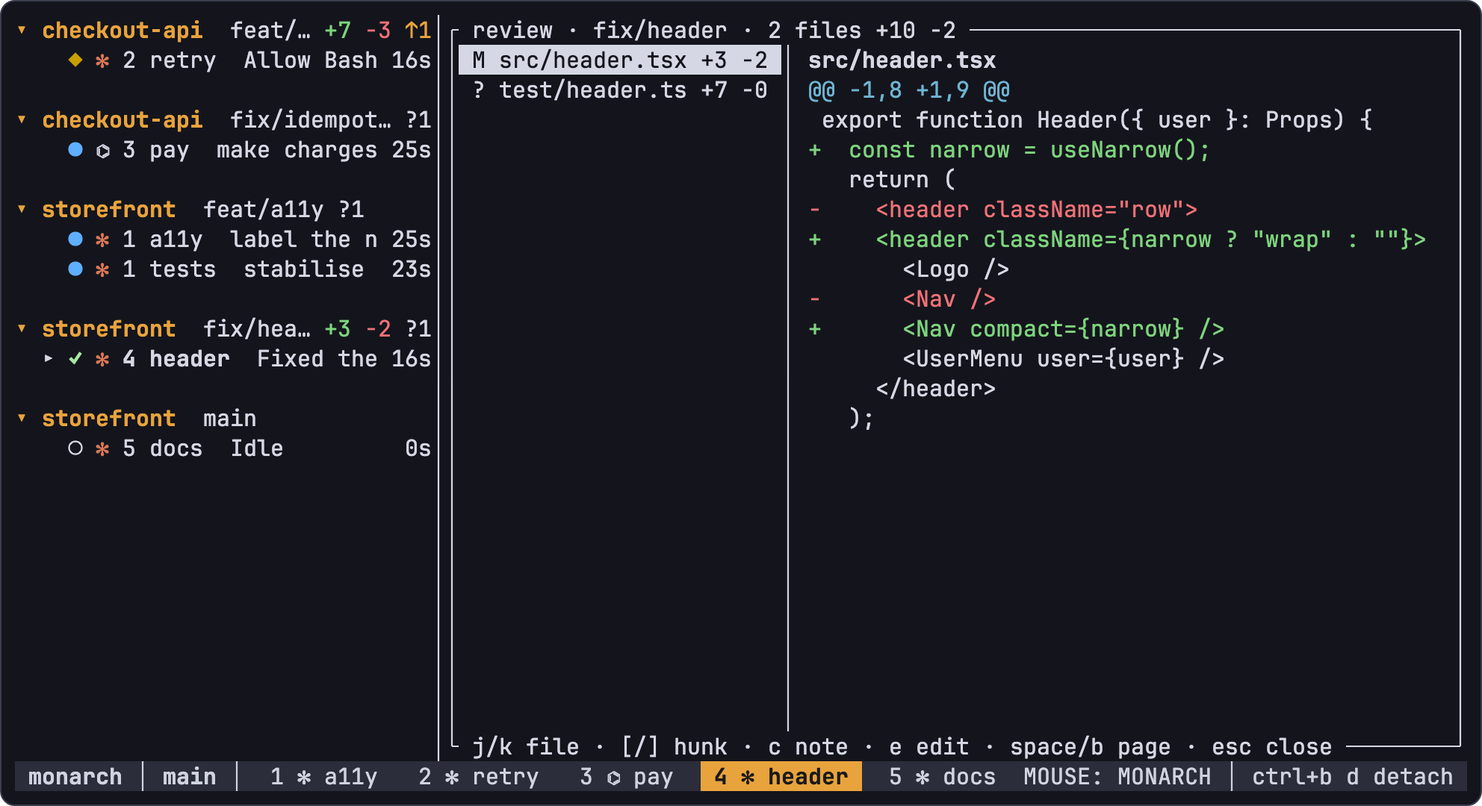
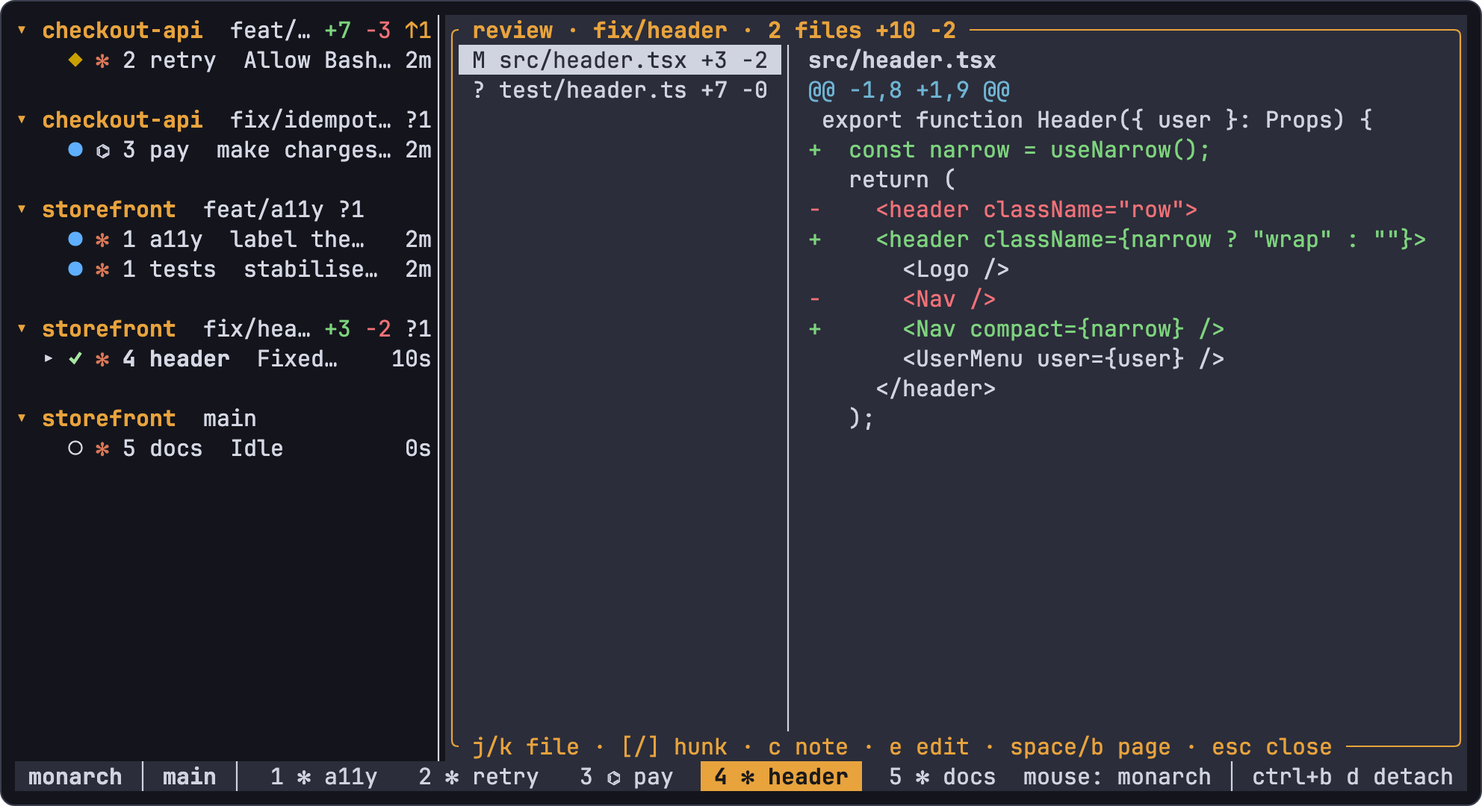
docs(readme): organise by feature, tighten the wording, regenerate the images
The day-in-the-life timeline becomes a Features section with one heading
per feature, and casual phrasing gives way to plain, precise wording.
Every capture is regenerated from the current binary (pop-up surfaces,
lower-case mouse badge, current sidebar); the social preview carries the
new tagline. Alt text follows the new captures.

diff --git a/scripts/capture_readme.py b/scripts/capture_readme.py
@@ -862,7 +862,7 @@ html,body{{width:1280px;height:640px;overflow:hidden;background:#0d0e13}}
 h1{{font-size:64px;line-height:1;margin:0 0 18px;font-weight:700;letter-spacing:-.02em}}
 p{{font-size:29px;line-height:1.28;margin:0;color:#d5d8e4;text-wrap:balance}}
 .shot{{position:absolute;left:488px;top:{(640 - SOCIAL_SHOT_H) // 2}px;transform-origin:0 0;transform:scale({SOCIAL_SCALE})}}
-</style><div class=card>{logo}<h1>Monarch</h1><p>Every agent in its own pane, and you always see which one needs you.</p></div>
+</style><div class=card>{logo}<h1>Monarch</h1><p>A terminal multiplexer for AI coding agents that shows you which one needs you.</p></div>
 <div class=shot>{body}</div>"""
     src = os.path.join(out, "social.html")
     write(src, doc)

diff --git a/README.md b/README.md
@@ -5,9 +5,9 @@
 <h1 align="center">Monarch</h1>
 
 <p align="center">
-  <strong>Every agent in its own pane, and you always see which one needs you.</strong><br>
-  A terminal multiplexer for Claude Code, Codex and your shells.<br>
-  Keys, mouse, paste and colours reach your programs as they would in a bare terminal.
+  <strong>A terminal multiplexer for AI coding agents that shows you which one needs you.</strong><br>
+  Run Claude Code, Codex and your shells side by side, grouped by repository and worktree.<br>
+  Keys, mouse, paste and colours reach your programs exactly as they would in a bare terminal.
 </p>
 
 <p align="center">
@@ -15,7 +15,7 @@
 </p>
 
 <p align="center">
-  <a href="#install">Install</a> · <a href="#a-day-with-six-agents">A day with six agents</a> · <a href="#how-it-compares">How it compares</a> · <a href="docs/guide.md">User guide</a>
+  <a href="#install">Install</a> · <a href="#features">Features</a> · <a href="#how-it-compares">How it compares</a> · <a href="docs/guide.md">User guide</a>
 </p>
 
 ```sh
@@ -27,18 +27,18 @@ brew tap cooksterj/monarch && brew trust cooksterj/monarch && brew install cooks
   <img src="docs/assets/hero.webp" width="100%" alt="A recording of Monarch with six agents in a sidebar grouped by git repository. The agent named retry, in another tab, shows an amber diamond because it needs permission to run a command. The user opens the inbox, types 1 to answer without leaving the pane they are in, and retry goes back to work. They then jump to the agent named header, which has finished, and read its diff.">
 </picture>
 
-<sub>The real binary, recorded in a PTY. The agents are scripted, the repositories are throwaway, and the captions and amber ring are added for the recording. [`scripts/capture_readme.py`](scripts/capture_readme.py) regenerates every capture on this page.</sub>
+<sub>Recorded from the real binary in a PTY. The agents are scripted, the repositories are disposable, and the captions and amber ring were added for the recording. [`scripts/capture_readme.py`](scripts/capture_readme.py) regenerates every image on this page.</sub>
 
 > [!NOTE]
-> **Early.** Monarch is usable day to day on macOS and Linux, and everything shown here works today. Versions before 1.0 may still change keys, config and the wire format between releases. [Progress is in the plan](docs/plan.md).
+> **Pre-1.0.** Monarch is stable enough for daily use on macOS and Linux, and every feature shown here is available in the current release. Until 1.0, keys, configuration and the wire format may change between releases. See the [roadmap and progress](docs/plan.md).
 
-## A day with six agents
+## Features
 
-[09:02 Worktrees](#0902-start-the-first-three) · [09:14 Inbox](#0914-one-of-them-needs-you) · [10:20 Fidelity](#1020-you-open-vim-in-the-next-pane) · [11:30 Review](#1130-one-of-them-says-its-done) · [12:10 Detach](#1210-go-to-lunch) · [13:05 SSH](#1305-pick-it-up-from-somewhere-else) · [15:40 Restore](#1540-the-server-dies) · [16:45 CLI](#1645-let-an-agent-run-the-next-one) · [17:30 Themes](#1730-someone-asks-what-theme-that-is)
+[Worktrees](#parallel-agents-in-isolated-worktrees) · [Attention inbox](#an-inbox-for-agents-waiting-on-you) · [Agent state](#where-agent-state-comes-from) · [Terminal fidelity](#terminal-fidelity) · [Diff review](#built-in-diff-review) · [Detach and SSH](#detach-and-reattach-from-anywhere) · [Restore](#restore-after-a-crash) · [Automation](#automation-from-the-cli) · [Themes](#themes-and-key-presets)
 
-### 09:02 Start the first three
+### Parallel agents in isolated worktrees
 
-Each one gets its own git worktree and tab, so they can't overwrite each other's work.
+`monarch new` creates a git worktree and opens a new tab in it, running an agent or a shell, so agents working in parallel never overwrite each other's changes.
 
 ```sh
 monarch new feat/retry --agent claude --detached
@@ -48,33 +48,35 @@ monarch new feat/a11y --agent claude
 
 <img align="right" width="38%" src="docs/assets/sidebar.png" alt="Monarch's sidebar. Panes are grouped under checkout-api and storefront by branch, each with a state glyph, an agent icon, a name and its current activity. One branch shows plus 7, minus 3 and 1 commit to push.">
 
-Nothing needs configuring. The sidebar works out the repository and worktree from each pane's directory, then shows how each checkout differs: `+7` `−3` lines changed, `?1` new files, `↑1` commits to push.
+No configuration is required. The sidebar derives each pane's repository and worktree from its working directory and shows how each checkout differs from its upstream: `+7` `−3` lines changed, `?1` untracked files, `↑1` commits to push.
 
-Already inside Monarch? `prefix N` does the same from a form. The prefix is `Ctrl-b`, and every key is [rebindable](docs/guide.md#keys).
+From inside Monarch, `prefix N` opens the same action as a form. The prefix is `Ctrl-b`, and every key is [rebindable](docs/guide.md#keys).
 
 <img src="docs/assets/worktree.png" width="440" alt="The new worktree form, with the branch name feat/parser typed in and a choice of starting a shell, Claude Code or Codex.">
 
 <br clear="right">
 
-### 09:14 One of them needs you
+### An inbox for agents waiting on you
 
-You're working in `a11y`. In another tab, `retry` wants to run a command, and an amber diamond appears on its row in the sidebar.
+When an agent in another tab needs a decision, such as permission to run a command, an amber diamond appears on its row in the sidebar.
 
-`prefix a` opens the inbox: every agent waiting on you, longest wait first, with the question it asked or the last thing it said and how long it has been waiting. Type `y` or `n` and the answer goes to that agent in the form it expects, while you stay where you are. `Enter` jumps to its pane instead, `prefix Tab` goes straight to the next blocked agent, and `prefix g` then `b` lists only the agents waiting on you, as a jump list.
+`prefix a` opens the attention inbox: every agent waiting on you, longest wait first, with its question or last message and how long it has been waiting. Press `y`, `n` or a number to answer; Monarch sends the reply to that agent in the form it expects, and you stay in your current pane. `Enter` jumps to the agent's pane instead, `prefix Tab` goes directly to the next blocked agent, and `prefix g` then `b` filters the pane list to blocked agents.
 
 <img src="docs/assets/inbox.png" width="640" alt="The inbox. It lists retry, blocked on 'Allow Bash cargo clean and cargo test', and header, done with its last message. A hint line reads: move, enter jump, y/n/1-9 answer, esc close.">
 
-When Claude Code hands work to sub-agents or teammates, or Codex spawns agents, each gets its own row under the agent that started it, named by its task and marked with the same glyphs. A sub-agent's question blocks its parent's row, so it reaches the inbox like any other. Finished rows stay until your next prompt, so you can see what was done.
+Sub-agents are tracked too. When Claude Code delegates to sub-agents or teammates, or Codex spawns agents, each appears as a row beneath its parent, named by its task and marked with the same state glyphs. A sub-agent's question blocks its parent, so it reaches the inbox like any other. Finished rows remain until your next prompt, so you can see what was done.
 
-Monarch knew because the agent told it. `monarch setup` adds hooks to Claude Code and Codex, backing up each file it edits. Other agents are recognised from terminal notifications and from their screen.
+### Where agent state comes from
+
+Agents report their own state. `monarch setup` installs hooks for Claude Code and Codex, backing up each file it edits. Other agents are recognised from terminal notifications and from what is on their screen.
 
 <img src="docs/assets/signals.svg" width="560" alt="A diagram. Monarch learns an agent's state from three sources, most trusted first: the agent's own hooks, terminal notifications, and detection rules for 22 agents reading the screen. They resolve to one state per pane: working, blocked, idle, done, error or exited.">
 
-You can always ask why. `prefix i` shows it for the pane you're in: the state and which signal set it, what the screen looks like to the detection rules, and the last few states the agent went through. It follows the agent while open.
+Every state can be explained. `prefix i` shows, for the current pane, the state and the signal that set it, how the detection rules read the screen, and the agent's recent state history. The view updates live while it is open.
 
-<img src="docs/assets/agent-info.png" width="640" alt="The agent info for retry. State: Blocked for 5s, from its hooks. Activity: Allow Bash cargo clean and cargo test retry. Program: claude. Screen: Blocked by rule bash_permission_prompt, claude 2026.10.11. Under Recent states, oldest first: Idle from its screen 22 seconds ago, Working from its hooks 21 seconds ago with the prompt fix the retry backoff, then Blocked from its hooks 5 seconds ago. Under Rules, thirteen rules of the Claude manifest with their state, priority and region; bash_permission_prompt is marked as the one that fired, with the text it read.">
+<img src="docs/assets/agent-info.png" width="640" alt="The agent info for retry. State: Blocked for 5s, from its hooks. Activity: Allow Bash cargo clean and cargo test retry. Program: claude. Screen: Blocked by rule bash_permission_prompt, claude 2026.10.11. Under Recent states, oldest first: Idle from its screen, Working from its hooks with the prompt fix the retry backoff, Blocked on the Bash permission, Working on the command, then Blocked again 5 seconds ago. Under Rules, the first twelve of 31 rules in the Claude manifest with their state, priority and region.">
 
-The same answer from a shell:
+The same information is available from the command line:
 
 ```text
 $ monarch agent explain p2
@@ -88,49 +90,47 @@ manifest  claude 2026.10.11.1
 screen    ◆ Blocked (rule bash_permission_prompt)
 ```
 
-### 10:20 You open vim in the next pane
+### Terminal fidelity
 
-Monarch stays out of its way. Vim gets its mouse, Shift+Enter still works in Claude Code, and a 1 MiB paste arrives in one piece. Only the keys after the prefix are Monarch's. Colour queries get your real terminal's answer, and panes get `TERM=xterm-256color` and `TERM_PROGRAM=monarch`, so nothing pretends to be your terminal.
+Programs in a pane behave as they would in a bare terminal. Vim receives mouse events, Shift+Enter works in Claude Code, and a 1 MiB paste arrives intact. Monarch claims only the keys pressed after the prefix. Colour queries are answered by your real terminal, and panes run with `TERM=xterm-256color` and `TERM_PROGRAM=monarch`, so nothing impersonates your terminal.
 
-CI checks this with PTY harnesses that play the host terminal. [One](scripts/smoke_input_matrix.py) types a matrix of keys at the terminal core and compares what the pane receives byte for byte. Others drive `monarch attach` through the [mouse](scripts/smoke_mouse.py), and through [detaching and restoring](scripts/smoke_restore.py).
+CI verifies this with PTY harnesses that act as the host terminal. [One](scripts/smoke_input_matrix.py) sends a matrix of keys through the terminal core and compares what the pane receives byte for byte; others drive `monarch attach` through [mouse input](scripts/smoke_mouse.py) and through [detaching and restoring](scripts/smoke_restore.py).
 
-It's quick, too. In a [20-pane benchmark](docs/bench/m6-twenty-panes.md) on an Apple M2 Max, with ten panes printing a line every 20 ms in other tabs, a keystroke reached the program in 87 µs at the median and 266 µs at p99. With all 20 idle, client and server together used 0.7 % CPU.
+Overhead is low. In a [20-pane benchmark](docs/bench/m6-twenty-panes.md) on an Apple M2 Max, with ten panes in other tabs printing a line every 20 ms, keystroke latency to the program was 87 µs at the median and 266 µs at p99. With all 20 panes idle, client and server together used 0.7 % CPU.
 
-A few things don't pass through yet. Kitty graphics and sixel images aren't supported, and while Monarch has the mouse you hold Shift to use your terminal's own selection.
+Known limitations: Kitty graphics and sixel images are not yet supported, and while Monarch has mouse capture, hold Shift to use your terminal's native selection.
 
-### 11:30 One of them says it's done
+### Built-in diff review
 
-A green tick appears on `header`'s row. `prefix v` shows its uncommitted changes file by file, so you can read them before you believe it. Spot something off, press `c`, type a line, and the note lands in `header`'s prompt with the file, the hunk and your words, while you keep reading. `e` opens the file in `$EDITOR`.
+When an agent finishes, a green tick appears on its row. `prefix v` shows the pane's uncommitted changes file by file, so you can review the work before accepting it. Press `c` on a hunk to write a note; Monarch sends it to the agent's prompt with the file and hunk attached while you keep reading. `e` opens the file in `$EDITOR`.
 
 <img src="docs/assets/review.png" width="100%" alt="The review view for branch fix/header: two files listed on the left, and on the right a coloured diff of src/header.tsx with added lines in green and removed lines in red.">
 
-### 12:10 Go to lunch
+### Detach and reattach from anywhere
 
-`prefix d` detaches, and closing the terminal does the same. The server keeps every agent running for as long as its machine stays awake.
+`prefix d` detaches, as does closing the terminal. The server keeps every agent running for as long as the machine is awake.
 
 ```text
 $ monarch ls
 main   6 panes, 5 tabs
 ```
 
-### 13:05 Pick it up from somewhere else
+On a machine that stays on, connect with `ssh` and run `monarch` to pick up where you left off. Several terminals can be attached to one session at once. Copying uses OSC 52, which reaches your local clipboard over SSH when your terminal permits clipboard access.
 
-If Monarch runs on a machine that stays on, `ssh` in and run `monarch`. Two terminals can be attached at once. Copying uses OSC 52, which reaches your local clipboard over SSH if your terminal allows clipboard access.
+### Restore after a crash
 
-### 15:40 The server dies
-
-Say a reboot, or a stray `kill -9`. The next `monarch` brings back your tabs, your splits and each pane's working directory. Agents Monarch started resume their conversations: `claude --resume` for Claude Code, `codex resume` for Codex.
+If the server stops unexpectedly, after a reboot or a `kill -9`, the next `monarch` restores your tabs, splits and each pane's working directory. Agents that Monarch started resume their conversations: `claude --resume` for Claude Code, `codex resume` for Codex.
 
 <picture>
   <source media="(max-width: 600px)" srcset="docs/assets/restored-phone.png">
-  <img src="docs/assets/restored.png" width="100%" alt="Monarch just after a kill -9 and a new attach. The sidebar is back with the day's six agents, grouped by repository and branch. The retry pane reads: monarch, restored after the server stopped, resuming Claude Code session, followed by the scripted agent printing the claude --resume command Monarch ran.">
+  <img src="docs/assets/restored.png" width="100%" alt="Monarch just after a kill -9 and a new attach. The sidebar is back with all six agents, grouped by repository and branch. The retry pane reads: monarch, restored after the server stopped, resuming Claude Code session, followed by the scripted agent printing the claude --resume command Monarch ran.">
 </picture>
 
-An agent you started by hand comes back as a shell in the same directory. Running programs and their screens can't survive the server, as with tmux. `monarch kill` ends a session for good.
+An agent you started by hand returns as a shell in the same directory. As with tmux, running programs and their screens cannot outlive the server. `monarch kill` ends a session permanently.
 
-### 16:45 Let an agent run the next one
+### Automation from the CLI
 
-Agents in panes can use the same commands you do. `monarch setup` installs a skill that teaches them how.
+Agents running in panes can use the same commands you do, so one agent can start, instruct and wait on another. `monarch setup` installs a skill that teaches them how.
 
 ```sh
 monarch new feat-parser --agent claude --detached
@@ -139,9 +139,9 @@ monarch agent wait p7 --timeout 600     # until p7 is blocked, done or failed
 monarch agent read p7                   # what it said when it stopped
 ```
 
-### 17:30 Someone asks what theme that is
+### Themes and key presets
 
-Monarch's own, which follows your terminal's background, light or dark. Catppuccin, Tokyo Night and Gruvbox are built in too, each in both, and you can override single colours. Monarch colours only its own chrome; programs in panes keep theirs. Keys are as easy to change, with `monarch`, `tmux` and `herdr` presets.
+The default theme follows your terminal's background, light or dark. Catppuccin, Tokyo Night and Gruvbox are built in, each in light and dark variants, and individual colours can be overridden. Themes apply only to Monarch's own interface; programs in panes keep their colours. Key bindings ship with `monarch`, `tmux` and `herdr` presets and can be changed individually.
 
 <p align="center">
   <img src="docs/assets/theme-monarch-light.png" width="32%" alt="Monarch's sidebar in the monarch-light theme, on a light terminal.">
@@ -151,7 +151,7 @@ Monarch's own, which follows your terminal's background, light or dark. Catppucc
 
 ## How it compares
 
-Monarch is about two weeks old and the smallest project here. Several of these tools are further along, and some do things Monarch doesn't. A dash means we couldn't find the feature in that project's docs, which doesn't prove it's absent. [Corrections are welcome](https://github.com/cooksterj/monarch/issues).
+Monarch is the youngest and smallest project in this comparison. Several of these tools are more mature, and some offer features Monarch does not. A dash means the feature could not be found in that project's documentation, which does not prove it is absent. [Corrections are welcome](https://github.com/cooksterj/monarch/issues).
 
 | | Monarch | [Herdr](https://github.com/herdrdev/herdr) | [TUIOS](https://github.com/Gaurav-Gosain/tuios) | [cmux](https://github.com/manaflow-ai/cmux) | [Zellij](https://github.com/zellij-org/zellij) | [tmux](https://github.com/tmux/tmux) | [Claude Squad](https://github.com/smtg-ai/claude-squad) |
 |---|---|---|---|---|---|---|---|
@@ -175,16 +175,16 @@ Monarch is about two weeks old and the smallest project here. Several of these t
 
 <sub>Checked against each project's docs on 2026-11-05. The cmux column describes its macOS app; cmux also has a separate terminal multiplexer, cmux TUI. These tools move quickly: Zellij's unreleased changes already add an inbox and agent status.</sub>
 
-**Choose something else if:**
+**Another tool may suit you better if you want:**
 
-- you want the tool that's already on every server: **tmux**.
-- you want layouts, floating panes, a web client and a plugin system, with or without agents: **Zellij**.
-- you want the established agent multiplexer, with Windows, plugins and several machines in one window: **Herdr**.
-- you want a tiling window manager with modes, BSP layouts and kitty graphics: **TUIOS**.
-- you're on a Mac and prefer a native app with a built-in browser: **cmux**.
-- you want a simple list of sessions on top of tmux: **Claude Squad**.
+- the multiplexer already installed on every server: **tmux**.
+- layouts, floating panes, a web client and a plugin system, with or without agents: **Zellij**.
+- the established agent multiplexer, with Windows support, plugins and several machines in one window: **Herdr**.
+- a tiling window manager with modes, BSP layouts and kitty graphics: **TUIOS**.
+- a native macOS app with a built-in browser: **cmux**.
+- a simple session list on top of tmux: **Claude Squad**.
 
-**Choose Monarch if** you want prefix-only keys that leave everything else to your programs, key handling that CI compares byte for byte, agent state that starts from the agent's own hooks, and an inbox you can answer from.
+**Monarch is a good fit if you want** prefix-only keys that leave everything else to your programs, input handling verified byte for byte in CI, agent state sourced first from the agent's own hooks, and an inbox you can answer from.
 
 <details>
 <summary>Sources for the table</summary>
@@ -204,7 +204,7 @@ Monarch runs on macOS and Linux. Each release ships prebuilt binaries for Apple 
 
 **Homebrew**
 
-The tap is [`cooksterj/homebrew-monarch`](https://github.com/cooksterj/homebrew-monarch). Homebrew 7 asks you to tap and trust third-party taps before it will load their formulas; older Homebrews have no `brew trust` and skip that step. Use the full name: a bare `brew install monarch` is a different program, the Monarch launcher cask.
+The tap is [`cooksterj/homebrew-monarch`](https://github.com/cooksterj/homebrew-monarch). Homebrew 7 requires third-party taps to be trusted before it loads their formulas; earlier versions have no `brew trust` and skip that step. Use the fully qualified name: `brew install monarch` installs an unrelated program, the Monarch launcher cask.
 
 ```sh
 brew tap cooksterj/monarch && brew trust cooksterj/monarch && brew install cooksterj/monarch/monarch
@@ -212,13 +212,13 @@ brew tap cooksterj/monarch && brew trust cooksterj/monarch && brew install cooks
 
 **Shell installer**
 
-Downloads the binary for your machine into `~/.cargo/bin` (no Rust needed) and tells you if that isn't on your `PATH`:
+Downloads the binary for your platform into `~/.cargo/bin` (Rust is not required) and warns you if that directory is not on your `PATH`:
 
 ```sh
 curl --proto '=https' --tlsv1.2 -LsSf https://github.com/cooksterj/monarch/releases/latest/download/monarch-mux-installer.sh | sh
 ```
 
-Every release also attaches the tarballs and their checksums on the [releases page](https://github.com/cooksterj/monarch/releases), if you would rather unpack one yourself.
+Each release also publishes tarballs and checksums on the [releases page](https://github.com/cooksterj/monarch/releases) for manual installation.
 
 **From source**
 
@@ -230,9 +230,9 @@ cargo install --git https://github.com/cooksterj/monarch                # latest
 cargo install --path . --locked                                         # from a clone
 ```
 
-The package is `monarch-mux` (plain `monarch` was taken), the binary is `monarch` either way.
+The package is named `monarch-mux` because `monarch` was already taken; the binary is `monarch` in every case.
 
-Then, once:
+**First run**
 
 ```sh
 monarch setup    # let Claude Code and Codex report their state; installs the Monarch skill
@@ -240,11 +240,13 @@ monarch doctor   # check the whole setup, with a fix for anything missing
 monarch          # attach to the session `main`, starting it if needed
 ```
 
-`monarch setup` adds hooks to `~/.claude/settings.json` and `~/.codex/config.toml` (honouring `CLAUDE_CONFIG_DIR` and `CODEX_HOME`), touching nothing else and backing each file up first. `--dry-run` shows what would change; `--uninstall` removes it all. Outside Monarch the hooks do nothing. Codex asks you to trust new hooks in `/hooks`.
+`monarch setup` adds hooks to `~/.claude/settings.json` and `~/.codex/config.toml` (honouring `CLAUDE_CONFIG_DIR` and `CODEX_HOME`), backs up each file first and changes nothing else. `--dry-run` previews the changes; `--uninstall` reverts them. The hooks have no effect outside Monarch. Codex asks you to approve new hooks in `/hooks`.
 
-To upgrade, run `brew upgrade cooksterj/monarch/monarch` or the installer again. The hooks run the `monarch` on your `PATH`, so they follow it. A running session keeps the build it started with; when the new one refuses to attach to it, the message says how to restart the session with its tabs and conversations restored.
+**Upgrading**
 
-The first time you attach, the welcome screen shows the few keys you need.
+Run `brew upgrade cooksterj/monarch/monarch` or the installer again. The hooks call whichever `monarch` is on your `PATH`, so they pick up the new version automatically. A running session keeps the build it started with; if the new client refuses to attach to it, the error explains how to restart the session with its tabs and conversations restored.
+
+On first attach, a welcome screen lists the essential keys.
 
 <img src="docs/assets/welcome.webp" width="100%" alt="Monarch's welcome screen: pixel-art monarch butterflies rise past a card with the name, the tagline and the keys a newcomer needs.">
 
@@ -253,7 +255,7 @@ The first time you attach, the welcome screen shows the few keys you need.
 <details>
 <summary><strong>Keys</strong></summary>
 
-Everything starts with the prefix, `Ctrl-b`. Press it and wait to see every key.
+Every command starts with the prefix, `Ctrl-b`. Press it and pause to see all available keys.
 
 | Keys | Action |
 |---|---|
@@ -289,7 +291,7 @@ monarch ls              # running sessions
 monarch new feat/x --agent claude   # a worktree for branch feat/x, with Claude Code in it
 ```
 
-None of these change anything:
+Read-only commands:
 
 | Command | What it tells you |
 |---|---|
@@ -307,7 +309,7 @@ The `agent` commands use the session you're in, or `main` outside Monarch; `-s <
 
 </details>
 
-**[The user guide](docs/guide.md)** covers all of it: agents and their states, the inbox, worktrees and review, copy mode and the mouse, sessions and restore, every key, rebinding, configuration and themes, and how agents can drive Monarch themselves.
+**[The user guide](docs/guide.md)** covers everything in detail: agents and their states, the inbox, worktrees and review, copy mode and the mouse, sessions and restore, every key, rebinding, configuration and themes, and how agents can drive Monarch.
 
 ## Development
 
@@ -315,11 +317,11 @@ The `agent` commands use the session you're in, or `main` outside Monarch; `-s <
 just check   # fmt, clippy, file-size lint, tests
 ```
 
-Read [`CLAUDE.md`](CLAUDE.md) for code conventions and [`docs/`](docs/README.md) for the design, architecture and benchmarks.
+See [`CLAUDE.md`](CLAUDE.md) for code conventions and [`docs/`](docs/README.md) for design, architecture and benchmarks. Contributions follow [`CONTRIBUTING.md`](CONTRIBUTING.md).
 
 ## Credits
 
-Monarch's agent detection rules come from [Herdr](https://github.com/herdrdev/herdr), unmodified, under the Apache License 2.0. [Attribution](crates/monarch-detect/manifests/ATTRIBUTION.md).
+Monarch's agent detection rules are taken unmodified from [Herdr](https://github.com/herdrdev/herdr) under the Apache License 2.0; see the [attribution](crates/monarch-detect/manifests/ATTRIBUTION.md).
 
 ## License
 

diff --git a/docs/plan.md b/docs/plan.md
@@ -405,6 +405,7 @@ Explicitly out of v1: Windows, remote SSH machine management, plugins, image pro
   - [x] Lower-case mouse badge (2026-11-16, user's request: "annoyingly inconsistent"): the status line's badge reads `mouse: monarch │` / `mouse: terminal │`, matching the lower-case chrome around it (`MouseOwner::badge`).
   - [x] Pop-ups stand out (2026-11-16, user's request: "when they pop, I want them more pronounced"): every pop-up (pickers and the inbox, the worktree form, help and agent info, review, the context menu, which-key, the welcome card) now draws through one `PopupFrame` (`widgets/popup_frame.rs`): cleared, filled with the new `popup` theme token (a raised surface: each palette's surface colour, `#eeece6` in monarch-light) with text in `bar_text`, a rounded border in the accent, the title in the accent and key hints dim. Its inside is the same one cell in as before, so placement, clicks and the cursor are unchanged. Under `NO_COLOR` the border is bold on the host's background. `PickerView` and `ContextMenuView` gained `chrome`. `THEME_TOKENS` is 19; `popup` can be overridden in `[theme.colors]`. Theme isn't on the wire, so `Hello::WIRE` is unchanged.
   - [x] Scripts renamed by what they are (2026-11-19, user's request: "not a fan of the spike…py name"): `scripts/<kind>_<subject>`: `smoke_single_pane.py`, `smoke_input_matrix.py`, `smoke_attach.py`, `smoke_mouse.py`, `smoke_restore.py` (were `spike{1,3,4,5,6}_*.py`), `bench_attach.py` (was `perf_attach.py`), `capture_readme.py` (was `readme_shots.py`), `lint_size.sh` (was `lint-size.sh`). References in the justfile, CI, README, DESIGN.md and this plan follow; the scripts' headers, temp-directory prefixes (kept short: macOS caps a socket path at 103 bytes) and `ok` lines no longer say "spike". `just` recipe names are unchanged (`smoke`, `bench-attach`, `readme-shots`, `lint-size`), as is the Rust example `spike4_bench`; CHANGELOG.md keeps the old names as history.
+  - [x] README made more professional, images regenerated (2026-11-19, user's request). The "A day with six agents" timeline (timestamp headings) is now a **Features** section with one heading per feature (worktrees, attention inbox, agent state, terminal fidelity, diff review, detach and SSH, restore, automation, themes); casual phrasing is gone, "about two weeks old" and the "Early" note are replaced, the install section gained First run and Upgrading headings. `DESIGN.md` describes the new structure. Every image was regenerated with `just readme-shots` (last done 2026-11-06), so they now show the pop-up surface and accent border, the lower-case mouse badge and the current sidebar; the social preview carries the new tagline and must be re-uploaded by hand in the repo's settings. Alt text for the agent info and restore stills follows the new captures. Not done: the comparison table is still as checked on 2026-11-05; no capture shows sub-agent rows (the scripted agents spawn none).
 - Next up: sub-agent slice 3 (a manifest count capture for hook-less agents: Grok's "Waiting on subagent…", Antigravity's "· N tasks"); mouse report re-encoding for multi-pane layouts; the remnant text re-reported on 2026-11-12 is unreproduced and waits for the user's next sighting (does it survive detach + reattach?); named layouts (`Space`) stay parked by the user's decision on 2026-11-08. Beyond those, the open M1 spikes and known gaps below. v0.1.6 was released on 2026-11-16 UTC (release PR #142: Codex sub-agent rows, pop-ups on their own surface with an accent border, the lower-case mouse badge, two dependency bumps). v0.1.5 was released on 2026-11-16 UTC (release PR #129: Claude Code sub-agent rows in the sidebar, named by their task, the `SubagentStart`/`SubagentStop` hooks, hooks kept in step with the installed build, the breathing working dot); the README and guide now describe sub-agents. v0.1.4 was released on 2026-11-13 UTC (release PR #124: underline styles, the session switch without a flash, emoji presentation width); v0.1.3 on 2026-11-09 (release PR #119). v0.1.2 was released on 2026-11-08 (release PR #113: the remnant-text fix, two dependency bumps). v0.1.1 was released on 2026-11-07 (release PR #102: the agent info overlay and go-to filters, time in state, config settings acted on, key popup fixes; the README's two version mentions, the comparison's latest release and the `cargo install --tag` line, are updated by hand after each release). v0.1.0 was released on 2026-11-06 (tag, GitHub Release with binaries and installer, Homebrew tap formula); crates.io publishing stays off (`git_only`).
 - Known gaps: the client starts the server with its own environment (`monarch server` inherits the attaching shell's cwd and env; fine for one user, revisit for `monarch new`); the startup probe is sent once per attach, not re-sent on FocusGained; the host title is set to the pane's (possibly empty) title on attach and restored on exit; memory is mostly scrollback (≈70 MB per flooded 200-column pane at 10k lines; use `agent_scrollback` for agent panes or compact history later); a pane flooding output costs about one core of parsing even when hidden (inherent to G13; real agents are far below that rate); the writer channel is unbounded (a huge paste into a program that never reads stdin grows memory); mouse reports pass through unre-encoded in the prototype (correct only for one full-screen pane; re-encoding is spike 5); the server must keep the last client's `HostInfo` so panes started before an attach still answer OSC 10/11 with host colours; Claude Code OSC 7501 probe behaviour (spike 2); crates publish as `monarch-mux-*` (`monarch-core` was taken on crates.io; `[lib] name` keeps `monarch_core` imports) and release-plz publishes them in dependency order; releases need repo secrets `RELEASE_PLZ_TOKEN` (PAT), `HOMEBREW_TAP_TOKEN` (PAT with write to `cooksterj/homebrew-monarch`) and `CARGO_REGISTRY_TOKEN`; installer artifact is `monarch-mux-installer.sh`; macOS blocks a process exiting until its tty output is drained, so PTY test harnesses must keep reading
 

diff --git a/DESIGN.md b/DESIGN.md
@@ -182,7 +182,7 @@ The app is a character grid: a sidebar, panes, and a status bar, all whole cells
 
 The README is a single GitHub column. The mark, name and promise are centred above the install command and a full-width hero. Images size by attribute: `100%` for full screens, `38%` right-floated for the sidebar, `32%` each for the row of three themes, and fixed widths of 440, 560 and 640 for popups and the diagram. `<picture>` swaps in phone crops at `max-width: 600px`.
 
-Timestamps as `###` headings structure the README's main story, with a line of jump links above them. This device belongs to the README and is not a rule for other surfaces.
+The README's Features section has one `###` heading per feature, named for what it does, with a line of jump links above them. This device belongs to the README and is not a rule for other surfaces.
 
 Captures render a 108 × 26 grid, or a crop of it, on `cell-width` by `cell-height` cells inside `capture-pad`. Stills render at 2x, and the hero at 1.5x wide and 2x for phones. The phone hero uses `caption-strip-phone`.
 
